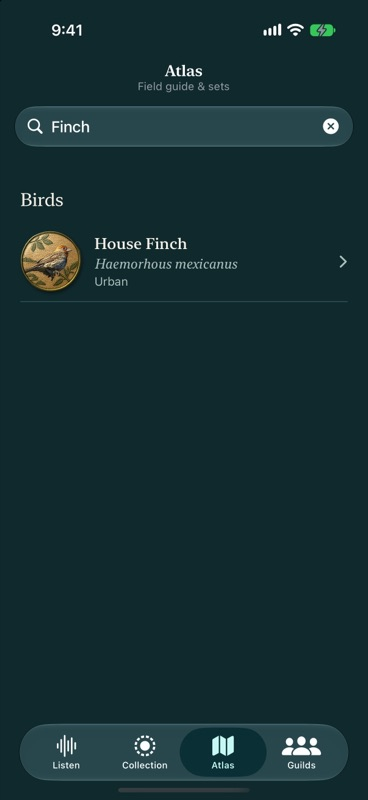
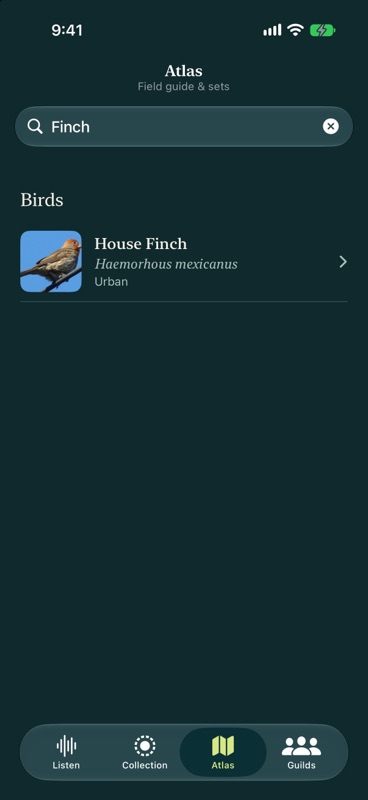
Patches only on the patches: the evidence, in dark, light and at ax5 (#150)

Changed region(s): [[0.0299, 0.2812, 0.2391, 0.375], [0.3288, 0.9062, 0.6576, 1.0]]

diff --git a/docs/screenshots/150/hunt/README.md b/docs/screenshots/150/hunt/README.md
@@ -1,4 +1,6 @@
-# UX cohesion slice 5: patch means yours, and the hunt (issue #150)
+# UX cohesion slice 5: the hunt (issue #150)
+
+**The maintainer changed the picture grammar on 2026-11-06:** a patch marks a bird you found, and a photo teaches what the bird looks like, so the places you read to learn a bird show the photo (`DECISIONS.md`). Sightings rows have your own photo, else the reference photo with its caption. Species rows and the whole Atlas have reference photos. The V2 and A2 rows below are as they now stand, and this overrides `4-set-page.png`'s patch row.
 
 Every picture is the running app on an iPhone 17 Pro simulator (iOS 27.2) at half size, taken by `capture.sh`, at the default text size (`large`), or the largest where the name ends in `-ax5`. `sheets/` holds the contact sheets the PR shows, with the reference first where there is one. The run's rows are `-fakeRunBirds`, the mock's three birds, over the seeded album in Griffith Park: real rows, real patches, a list that holds still.
 
@@ -6,8 +8,8 @@ Every picture is the running app on an iPhone 17 Pro simulator (iOS 27.2) at hal
 |---|---|---|
 | L1 | The summary leads with new patches waiting; three looks on a run's rows; quiet Stop | `sheets/run-against-reference`, `run-dark`, `run-light`, `run-ax5`, `run-row-ax5`, `sheets/contrast` |
 | L2 | Sew it and Add on rows, with the review's reveal and Undo; a tap on the row opens the review; a bird no pack describes keeps Review | `sheets/rows-after-add`: `run-added-dark`, `run-toast-dark`, `run-no-pack-dark`, `run-after-stop-dark`, `review-dark`; `review-light`; `HuntUITests` for the taps |
-| V2 | Your patch on rows: species, sightings without a photo, sets, the Atlas, a run | `sheets/grammar-dark`, `sheets/grammar-light`, `species-*`, `sightings-*`, `set-*`, `atlas-search-dark` |
-| A2 | A found bird's profile leads with your patch and its story on card stock | `sheets/profile`: `profile-dark`, `profile-light`, `profile-gallery-dark` (two patches, one with no painting on this phone), `profile-none-dark` (no sighting, as before); `profile-ax5` |
+| V2, overridden | Photos on rows: your own or the reference on Sightings, the reference on Species, sets and Atlas search, a silhouette for a bird still out there | `sheets/grammar-dark`, `sheets/grammar-light`, `species-*`, `sightings-*`, `set-*`, `atlas-search-*` |
+| A2, overridden | A bird's profile leads with its reference photo, then its story on card stock, found or not; your patch is a link in words | `sheets/profile`: `profile-dark`, `profile-light`, `profile-gallery-dark` (two patches, the newest's link), `profile-none-dark` (no sighting); `profile-ax5` |
 
 ## Where it differs from the reference
 
@@ -22,18 +24,15 @@ Every picture is the running app on an iPhone 17 Pro simulator (iOS 27.2) at hal
 
 ## Decodes under a moving light
 
-`decode-counts.txt`, from `capture.sh`: each surface with the light sweeping (`-patchLightSweep YES`), counting two 8 s windows of the app's log, then the patch decodes in the last minute. A thumbnail that had stayed a lazy provider would log AV1 lines at about the frame rate for every patch on screen, as #134 found. `count-*.jpg` shows what was on screen during each count.
+`decode-counts.txt`, from `capture.sh`: a run's rows with the light sweeping (`-patchLightSweep YES`), counting two 8 s windows of the app's log, then the patch decodes in the last minute. A thumbnail that had stayed a lazy provider would log AV1 lines at about the frame rate for every patch on screen, as #134 found. `count-*.jpg` shows what was on screen during each count.
 
 ```
-A real run over the clip, its birds sewn (`count-run-clip`): first window: 89 lines, 2 patch decodes, 18 AV1 or ImageIO lines. 20 s later: 33 lines, 0 patch decodes, 0 AV1 or ImageIO lines. Patch decodes in the last minute: 4.
-A run holding still, three rows (`count-run-still`): first window: 8 lines, 0 patch decodes, 0 AV1 or ImageIO lines. 20 s later: 28 lines, 0 patch decodes, 0 AV1 or ImageIO lines. Patch decodes in the last minute: 4.
-Species rows (`count-species`): first window: 3 lines, 0 patch decodes, 0 AV1 or ImageIO lines. 20 s later: 23 lines, 0 patch decodes, 0 AV1 or ImageIO lines. Patch decodes in the last minute: 12.
-Set rows (`count-set`): first window: 3 lines, 0 patch decodes, 0 AV1 or ImageIO lines. 20 s later: 23 lines, 0 patch decodes, 0 AV1 or ImageIO lines. Patch decodes in the last minute: 2.
+A real run over the clip, its birds sewn (`count-run-clip`): first window: 99 lines, 2 patch decodes, 18 AV1 or ImageIO lines. 20 s later: 45 lines, 0 patch decodes, 0 AV1 or ImageIO lines. Patch decodes in the last minute: 4.
+A run holding still, three rows (`count-run-still`): first window: 8 lines, 0 patch decodes, 0 AV1 or ImageIO lines. 20 s later: 29 lines, 0 patch decodes, 0 AV1 or ImageIO lines. Patch decodes in the last minute: 6.
 ```
 
-Each patch is two decodes, its colour and its layers: 2 patches on the real run's rows, 2 on the still one, 6 on Species and 1 on Set, each decoded once. The real run's first window caught a bird arriving, 2 patch decodes and their 18 decoder lines, which also shows the count can see a decode. Everything after is 0, at the sweep's rate of about 60 frames a second, where a re-decoding thumbnail would log hundreds. The second window's extra 20 lines are the system's network log closing the pack index's connection, nothing to do with patches.
+Each patch is two decodes, its colour and its layers, and the last minute's count includes whatever the launch drew before the run. The real run's first window caught a bird arriving, 2 patch decodes and their 18 decoder lines, which also shows the count can see a decode. The later windows are 0. Only a run's rows are counted now, since no other row has a patch on it.
 
-## The first count was wrong
 
 An earlier version of this table said "A run over the clip, with 30 patches sewn". `-seedBoard` seeded the pack's bare label then, and the first 30 birds are not the clip's, so those rows had no patches on them and the zero proved nothing. The seeds now write the label an add writes, and the real run uses `-seedLarge`, so nearly every bird it hears has a patch.
 
